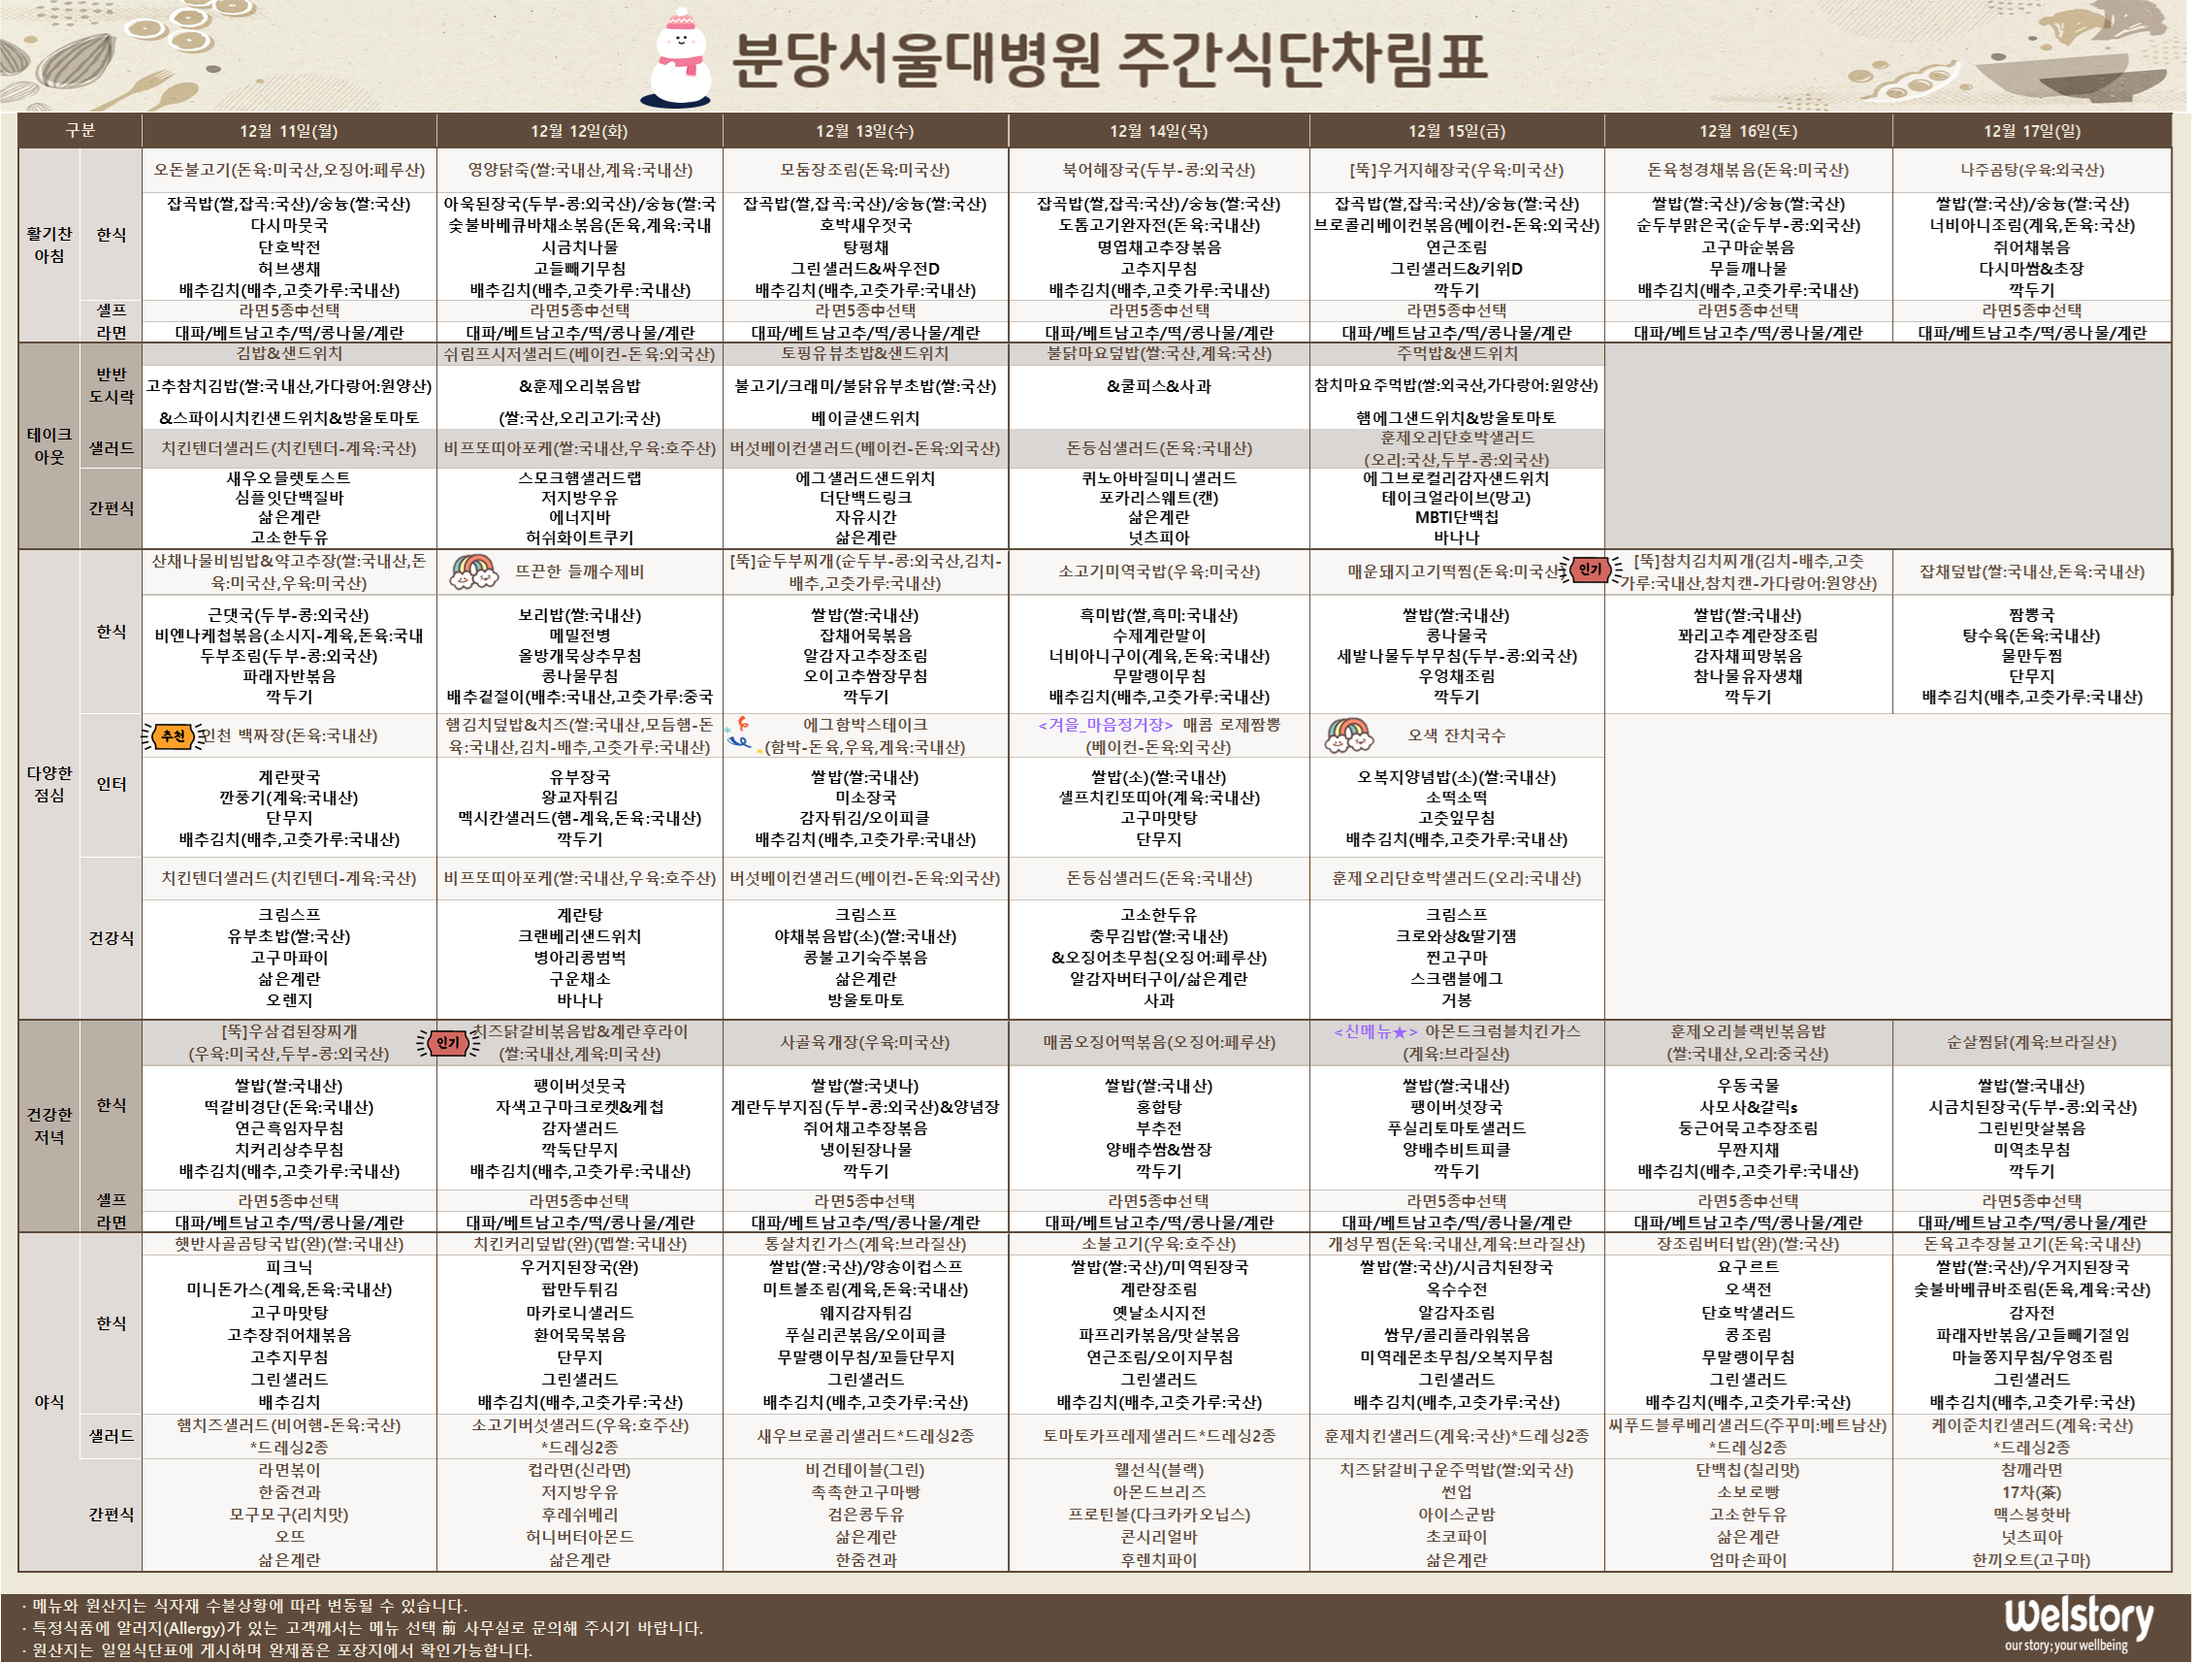
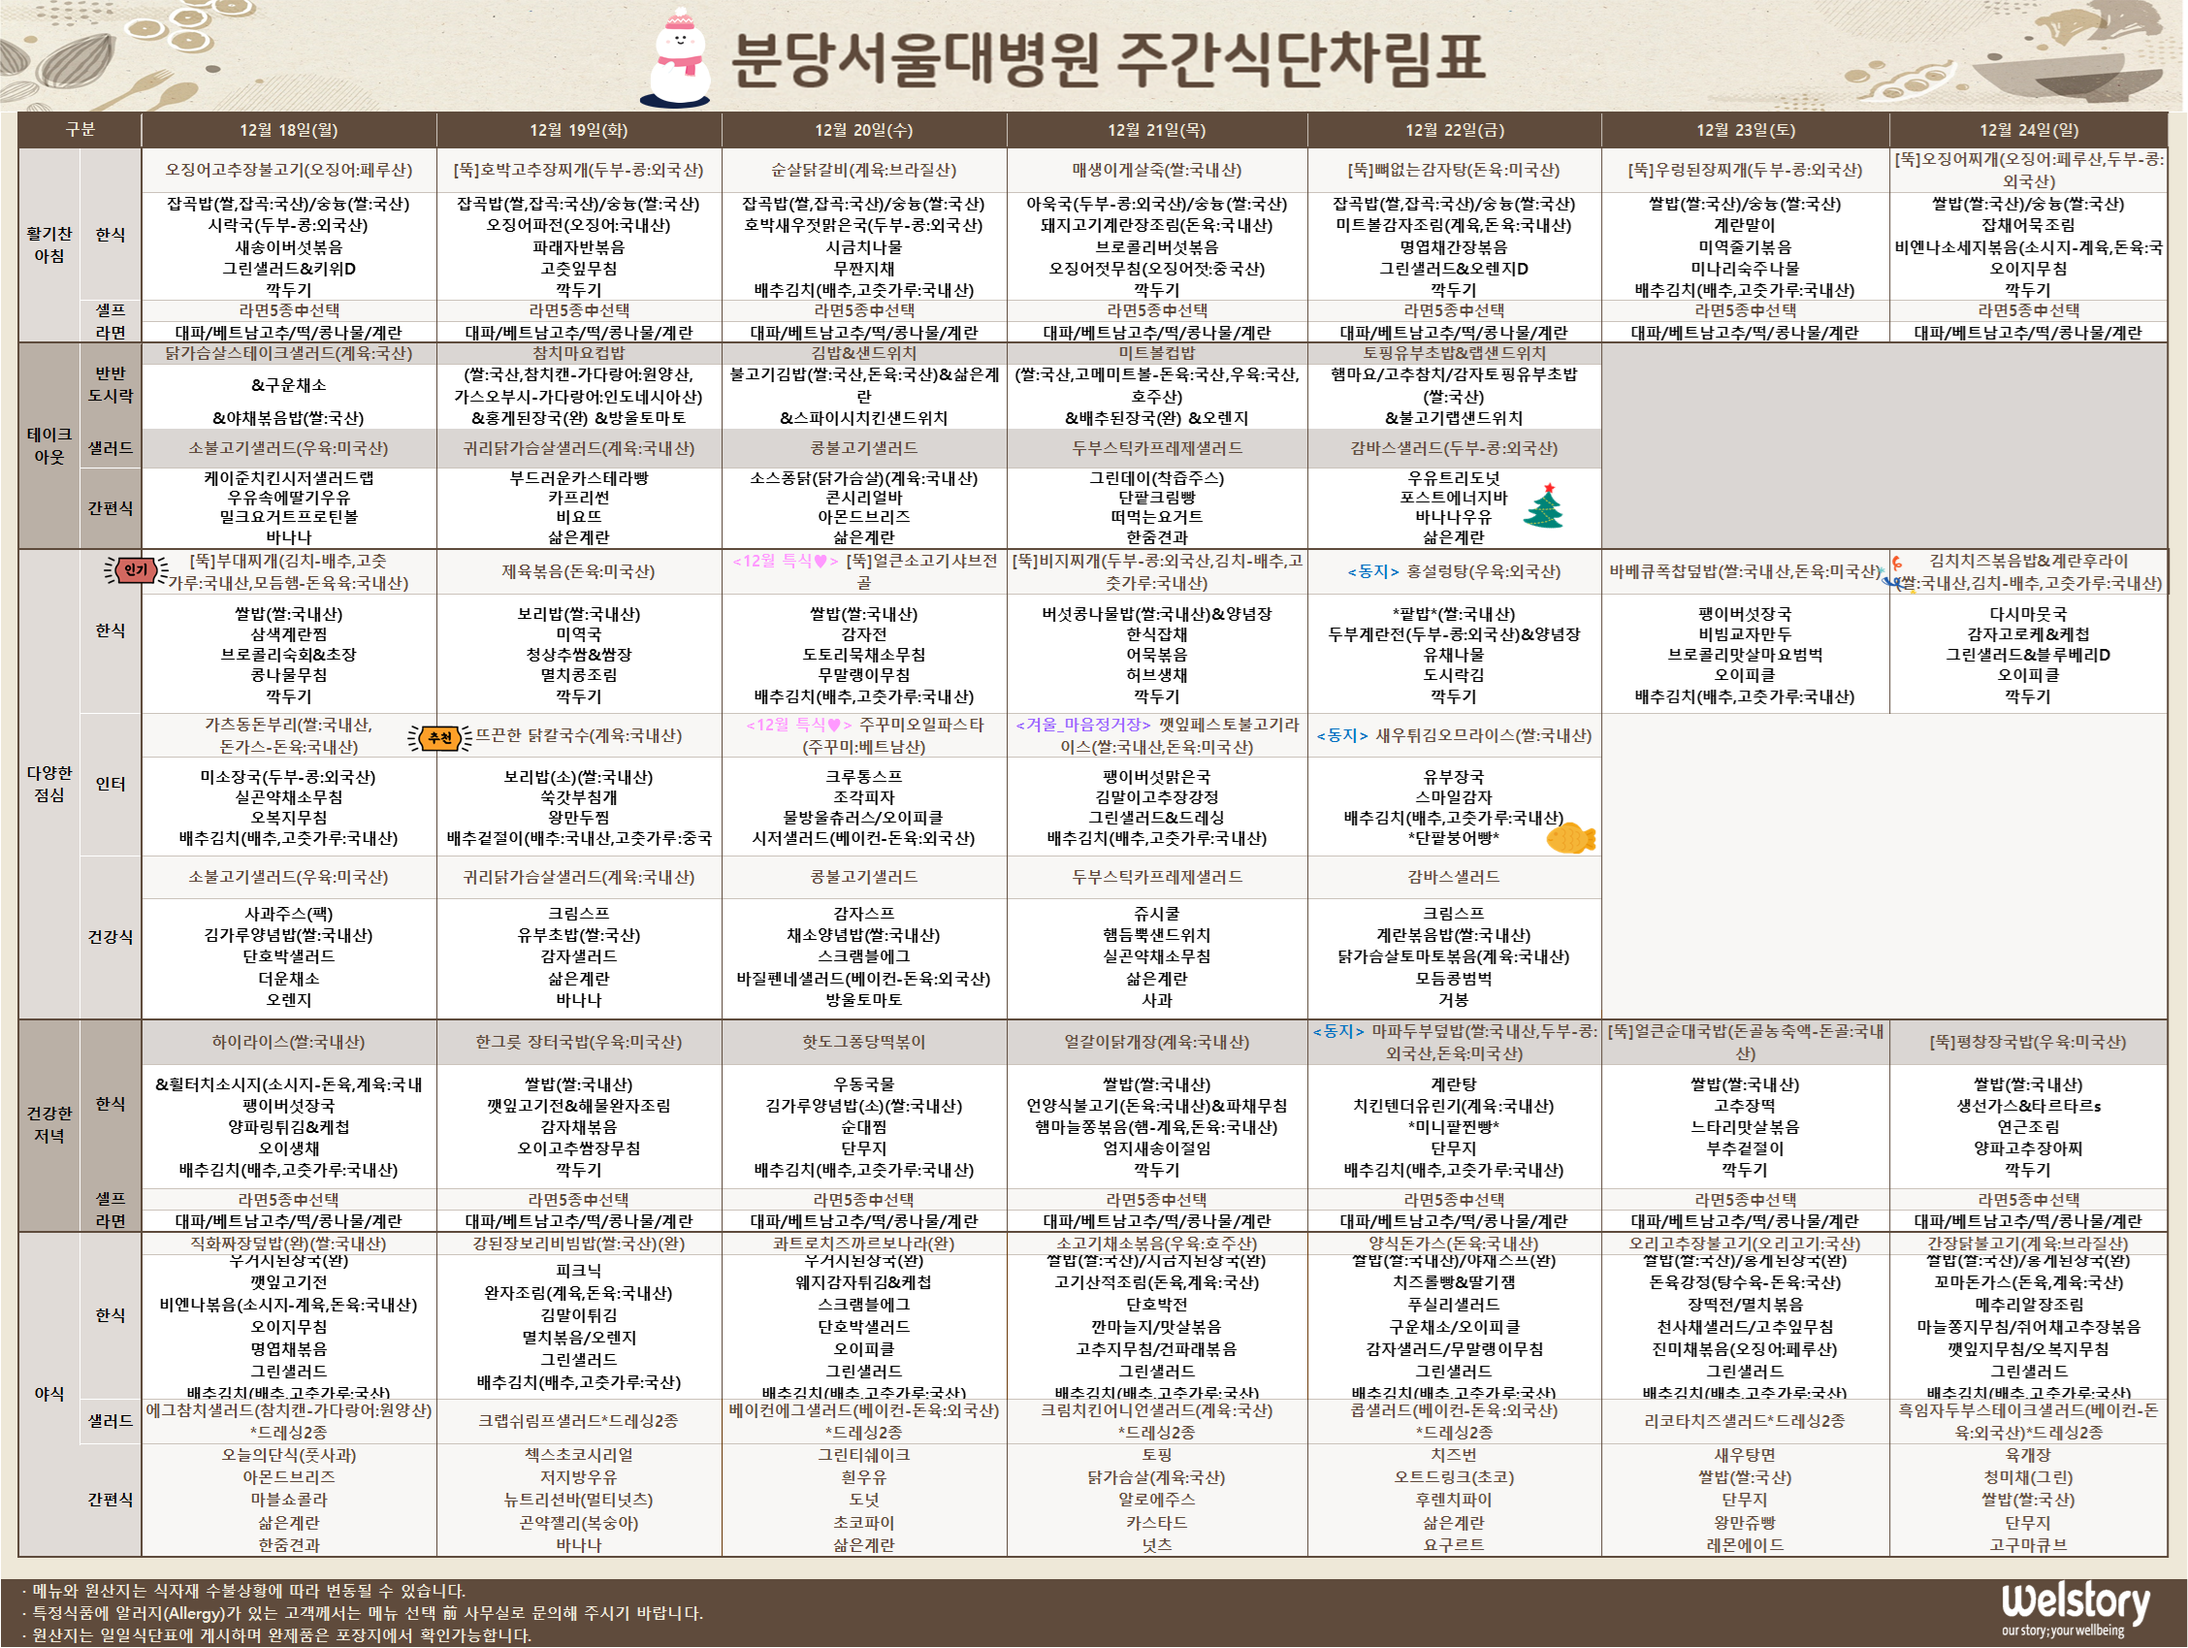
Add files via upload

Changed region(s): [[0.0, 0.0312, 0.9929, 0.9982], [0.0, 0.4679, 0.0621, 0.4991], [0.0, 0.1248, 0.031, 0.156]]

diff --git a/6/index.html b/6/index.html
@@ -12,14 +12,12 @@
 <h2> 메뉴 업데이트는 주인장 여유가 되면 합니다. (이미지 확대해서 보세요) <br> </h2>
 
 <br>
-<h1> 12월 2주차 </h1>
+<h1> 12월 3주차 </h1>
 <img src="수술.png" width="100%">
 
-<br>
-<h1> 12월 1주차  </h1>
-<img src="수술_1.png" width="100%">
 
-<h6> Last update 2023/12/08  </h6>  
+
+<h6> Last update 2023/12/18  </h6>  
 <h1 >맛있게 드세요.  </h1> 
 
 </body>

diff --git a/2/index.html b/2/index.html
@@ -14,16 +14,12 @@
 
 
 <br>
-<h1> 12월 2주차  </h1>
-<img src="HIP.png" width="50%">
+<h1> 12월 3주차  </h1>
+<img src="HIP.png" width="100%">
 
 <br>
 
-<h1> 12월 1주차  </h1>
-<img src="HIP_1.png" width="100%">
-
-
-<h6> Last update 2023/12/08  </h6>  
+<h6> Last update 2023/12/18  </h6>  
 <h1 >맛있게 드세요.  </h1> 
 
 </body>

diff --git a/1/index.html b/1/index.html
@@ -13,16 +13,12 @@
 
 
 <br>
-<h1> 12월 2주차  </h1>
+<h1> 12월 3주차  </h1>
 <img src="1동.png" width="100%">
 
 <br>
 
-<h1> 12월 1주차  </h1>
-<img src="1동_1.png" width="100%">
-
-
-<h6> Last update 2023/12/08  </h6>  
+<h6> Last update 2023/12/18  </h6>  
 <h1 >맛있게 드세요.  </h1> 
 
 </body>
